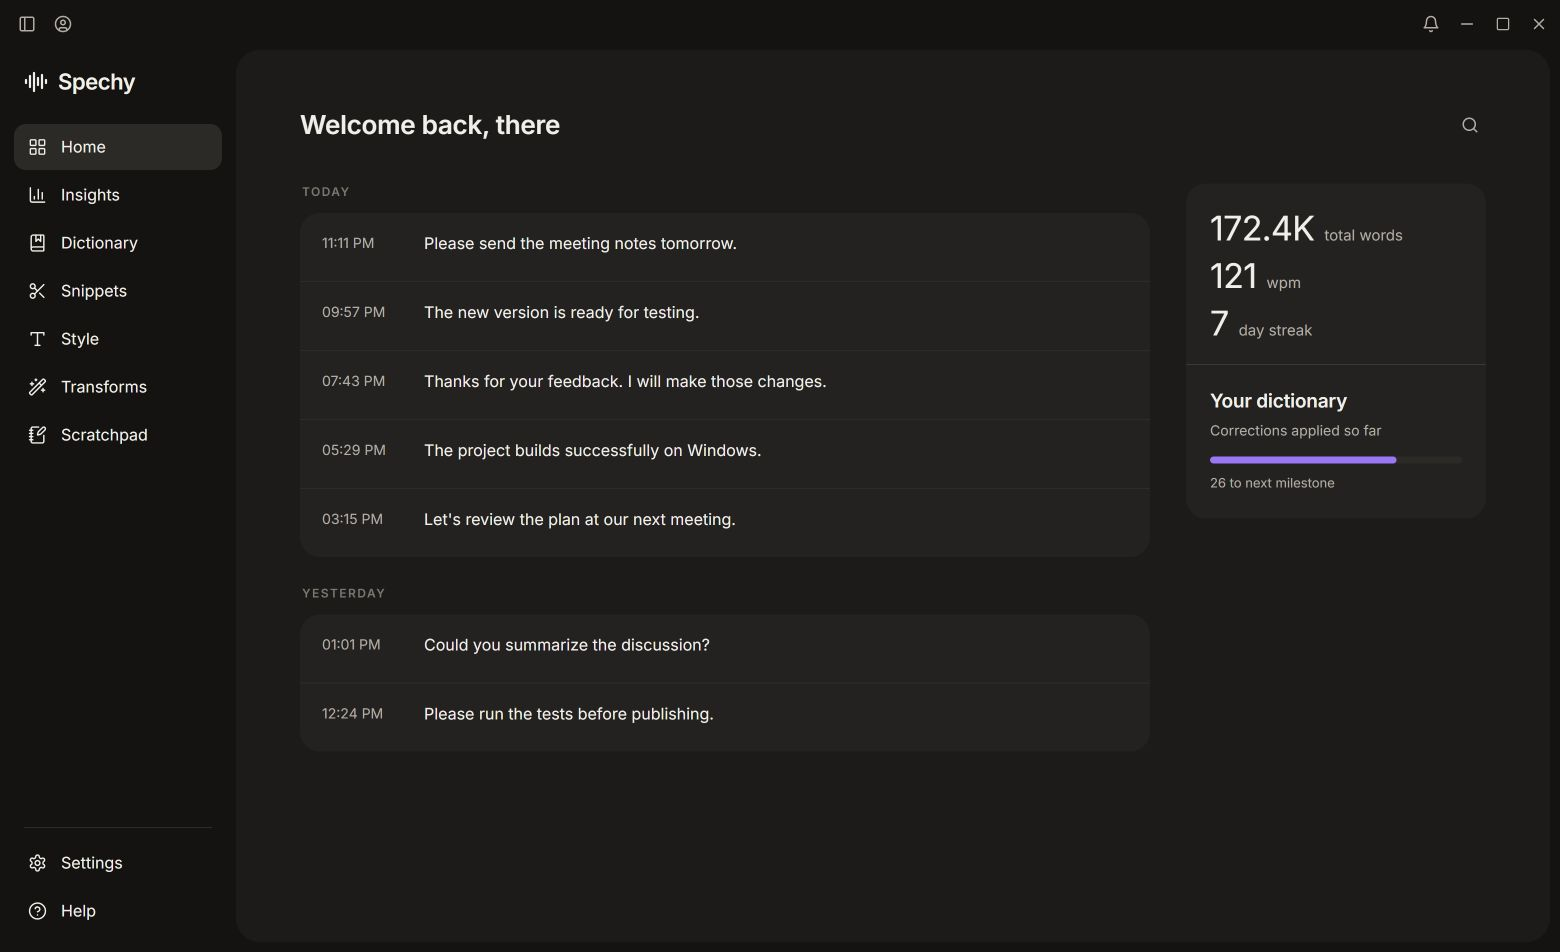
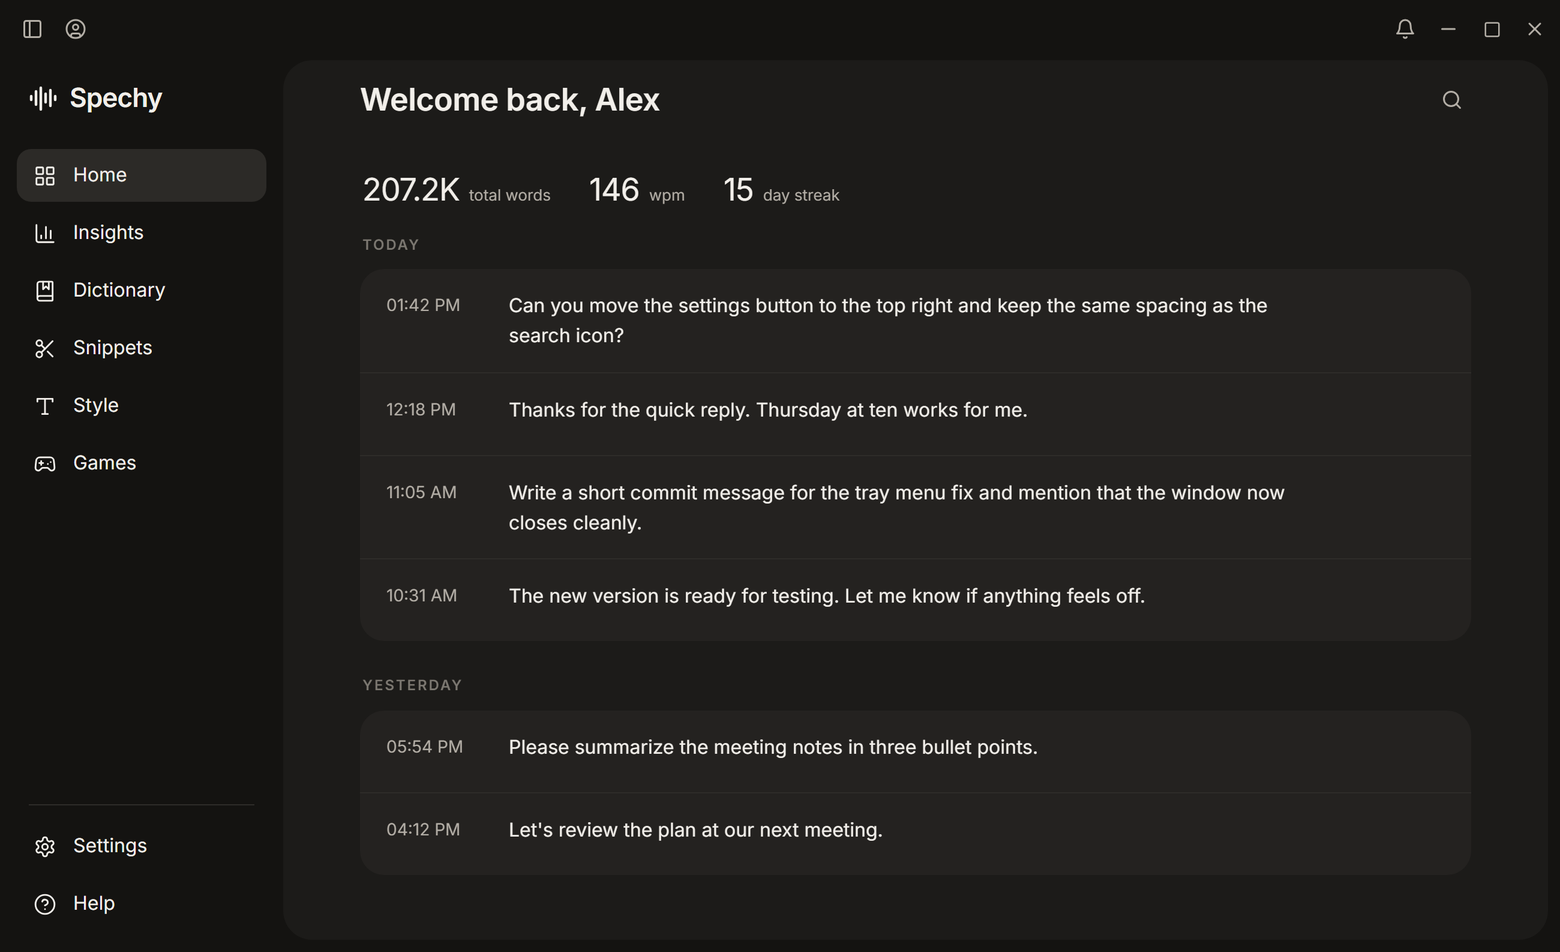
README: current screenshots (home, shortcuts)
The old images still showed Transforms, Scratchpad, the dictionary
milestone bar and v0.1.0. New ones come from the browser preview with
demonstration data only.

diff --git a/README.md b/README.md
@@ -21,7 +21,7 @@
   <a href="https://github.com/R-ACU/spechy/issues">Report an issue</a>
 </p>
 
-![Spechy in dark mode, showing dictation history and insights](assets/readme/home.png)
+![Spechy in dark mode, showing dictation history and word stats](assets/readme/home.png)
 
 <p align="center"><sub>Real Spechy interface. Screenshots use demonstration data.</sub></p>
 
